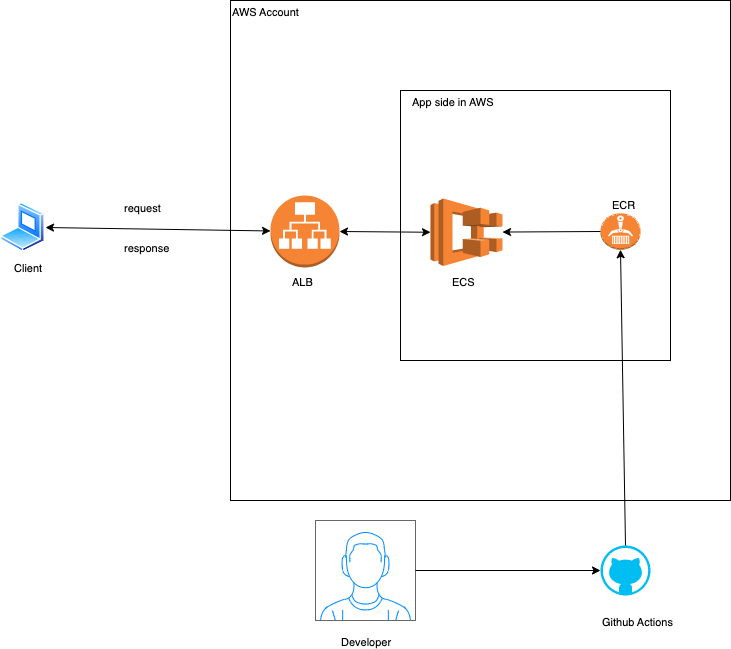
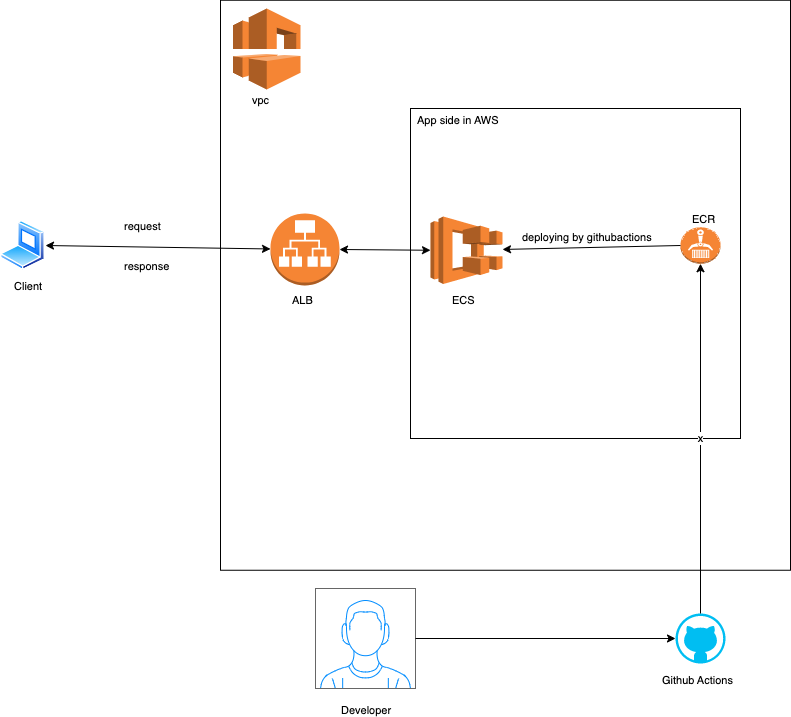
README file update

diff --git a/app/index.js b/app/index.js
@@ -84,6 +84,5 @@ const service = new awsx.ecs.FargateService("service", {
     },
 });
 exports.url = repository.url;
-// exports.endpoint = lb.loadBalancer.dnsName;
-// exports.url = pulumi.interpolate`http://${lb.loadBalancer.dnsName}`;
+
 

diff --git a/README.md b/README.md
@@ -1,4 +1,4 @@
-# Create Infrastructure and Deplotin a simple ngnix app on ECS using Pulumi javascript
+# Create Infrastructure and Deploying a simple ngnix app on ECS using Pulumi javascript
 Configure your AWS credentials and region environment variables to be able to build the infrasrtrucure.
 
 This repo offers a solution of automating the creation of simple infra and deplying tha a simpe nginx app in AWS ECS using Pulumi javascript. The infra includes the following:
@@ -6,28 +6,60 @@ This repo offers a solution of automating the creation of simple infra and deply
 -  Application Load Balancer
 -  ECR: To store the image in private repo.
   
-# Overview:
+## Overview:
 The solution is divided into three folders:
 - Stack (Pulumi js) in ./infra, which deploys the basic infrastructure of the solution. It includes VPC, security groups and a Application Loadbalancer.
 - Stack (Pulumi js) in ./app, which deploys the ecr, builds, and push the image to private repo. Then, it deploys the container from that image into ECS.
 - Workflow file (Github actions), to deploy the app to ECS depending on the conditions required.
 
-# Architecture:
+## Architecture:
 1. A VPC that has the two security groups. One for the Loadbalancer(ALB), and the other is for AWS ECS (In stack, ./infra).
 2. A LoadBalancer (ALB), which only allow access to an IP that you can set in a variable; for security measurments (In stack, ./infra).
 3. ECR, Where we push our image to (In stack, ./app).
 4. ECS, Where the app is deployed to as a container (In stack, ./app).
+   
+
+
 
 ![Image](arch.png)
 
-# Using this repo in details:
+
+## The Flow
+1. The developer do his changes in index.html, as required. 
+2. The developer creates the infra and the apps using the two stacks.
+3. The developer needs to make changes in the index.html, and pushes it in the repo.
+4. Github action (cicd.yaml file), will get triggered, build the new image, push it to ECR and then deploys it in ECS.
+5. Any changes to README.md file won't trigger the pipeline, as requested.
+6. Clients can access the application using the ALB dns name.
+
+
+
+## Using this repo in details:
 1. you need to set uo your aws profile in your terminal using Env variables:
    `export AWS_PROFILE=<ypu-aws-profile-name>`
-2. change dir to the first stack in dir (infra). 
+2. change dir to the first stack in dir [infra](./infra). 
    - Build it after changing the stack yaml file to the specific region you want to deploy the app to.
-3. change dir to you second stack (app). 
+3. change dir to you second stack [app](./app). 
    - Build it after changing the stack yaml file to the specific region you want to deploy the app to.
 4. If you changed the index.html file and pushed your changed to your repo, it'd automatically deploy it to your AWS ECS created in step 2.
+
+## Notes:
+- I didnt open the app to public, for security reasons. The user should assing the const `myip` in [index.js](./infra/index.js).
+  
+
+
+
+# Improvements:
+- We can create a dns record with proper naming and domain names usig route53, instead of using the dns of ALB.
+- If tha application will be accessible for certain users (Office), we can apply WAF on ALB, or even create API GW with cognito for authentication and authoriztion infront of ALB.
+
+# Alternative Architectures:
+1. Using Ec2, manged by Devops team, instead of fargate serverless. This will give us more control. I didn't go for this approach, as it'd make the solution more comlex.
+2. Instead of ECS, We can Auto Scaling group with Ec2, that has docker installed on it, and has role with permissions to pull images from ECR. Infornt of them, we have the same ALB.
+3. Instead of ECS, we can use EKS. I didn't choose this option, as the app is simple and it isn't going to use the capabilities EKS offers; so it'd be overengineering.
+   
+
+
 
 
 
